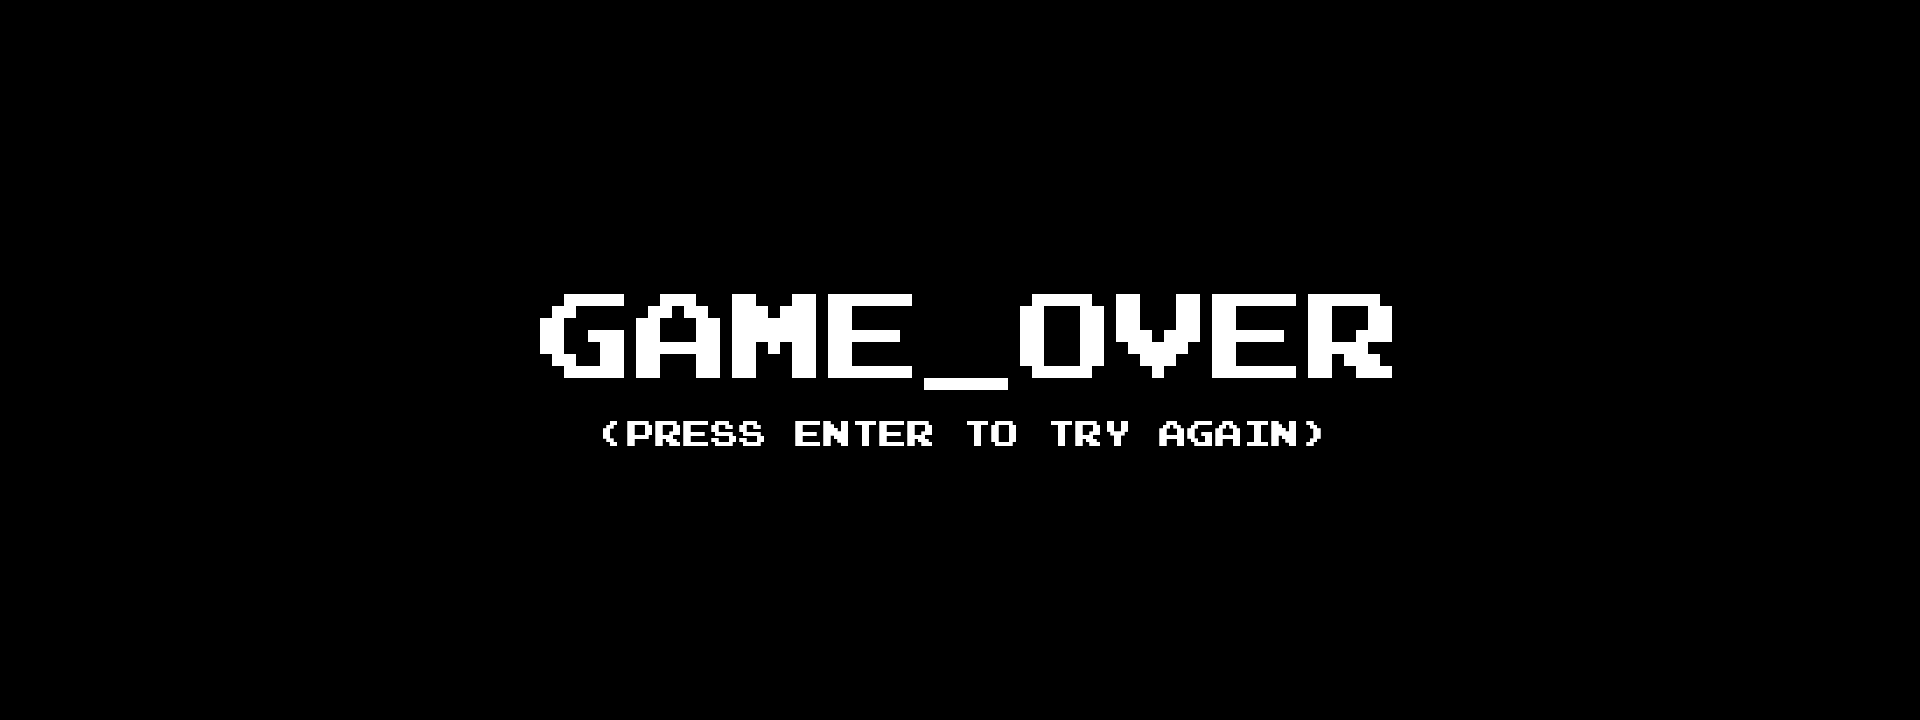
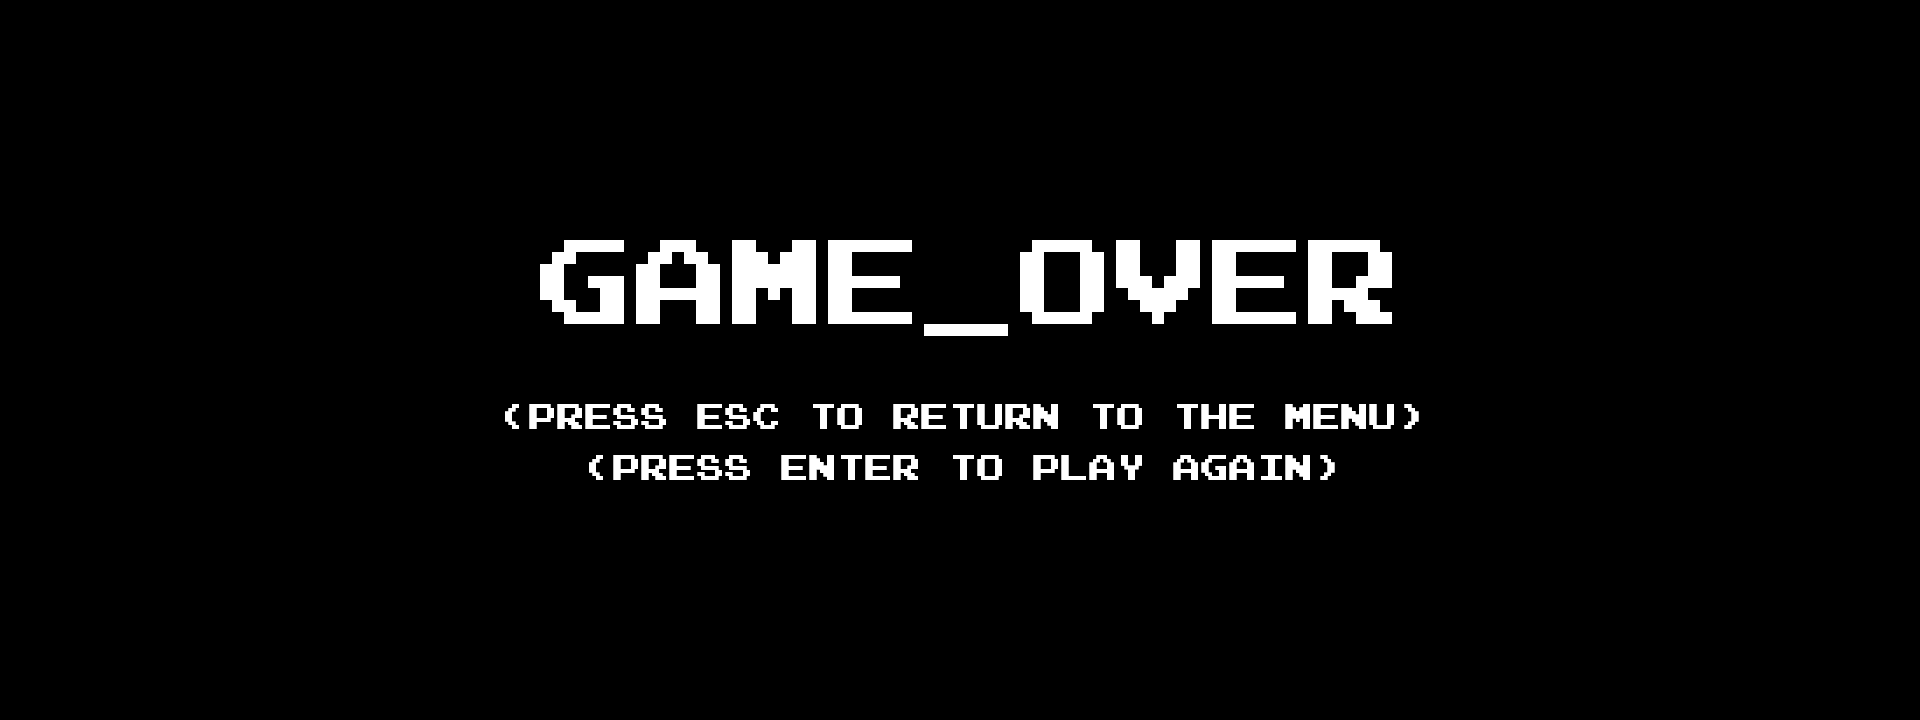
Started selection screens

Changed region(s): [[0.25, 0.3361, 0.75, 0.6722]]

diff --git a/src/control/GameEngine.java b/src/control/GameEngine.java
@@ -66,8 +66,6 @@ public class GameEngine implements Runnable {
     private synchronized void start() {
         if (isRunning) return;
 
-        createMap("map-01");
-
         isRunning = true;
         thread = new Thread(this);
         thread.start();
@@ -252,30 +250,41 @@ public class GameEngine implements Runnable {
      * @param input The inputted key-press.
      */
     public void receiveInput(ButtonAction input) {
-        if (mapManager.getMap().getEndPoint().isTouched() && input != ButtonAction.ENTER) return;
+        if (gameStatus == GameStatus.START_SCREEN) {
+//            if (input == ButtonAction.SELECTION_DOWN || input == ButtonAction.SELECTION_UP) uiManager.changeSelectedAction(input);
+//            if (input == ButtonAction.ENTER) uiManager.confirmSelectedAction();
+            if (input == ButtonAction.ESCAPE) System.exit(0);
+        } else if (gameStatus == GameStatus.MULTIPLAYER_LOBBY) {
+            //
+        } else if (gameStatus == GameStatus.CREDITS_SCREEN) {
+            if (input == ButtonAction.ENTER || input == ButtonAction.ESCAPE) gameStatus = GameStatus.START_SCREEN;
+        } else if (gameStatus == GameStatus.RUNNING) {
+            if (mapManager.getMap().getEndPoint().isTouched() && input != ButtonAction.ENTER) return;
 
-        Mario mario = mapManager.getMap().getMario();
+            Mario mario = mapManager.getMap().getMario();
 
-        if (input == ButtonAction.JUMP) mario.jump();
-        if (input == ButtonAction.CROUCH) {
-            if (mario.getX() >= 2736 && mario.getX() <= 2784 && !mario.isFalling() && !mario.isJumping()) {
-                camera.setX(10992 + ((1920 - WIDTH) / 2));
-                mario.pipeTeleport(11616, 96);
+            if (input == ButtonAction.JUMP) mario.jump();
+            if (input == ButtonAction.CROUCH) {
+                if (mario.getX() >= 2736 && mario.getX() <= 2784 && !mario.isFalling() && !mario.isJumping()) {
+                    camera.setX(10992 + ((1920 - WIDTH) / 2));
+                    mario.pipeTeleport(11616, 96);
+                }
             }
+            if (input == ButtonAction.M_RIGHT) mario.move(true, camera);
+            if (input == ButtonAction.M_LEFT) mario.move(false, camera);
+
+            if (input == ButtonAction.FIRE && mario.isFire()) mario.setFiring(true);
+            if (input == ButtonAction.RUN) {
+                if (mario.getVelX() > 0) mario.setVelX(7.5);
+                if (mario.getVelX() < 0) mario.setVelX(-7.5);
+            }
+            if (input == ButtonAction.CHEAT && mario.getVelX() >= 0) mario.setVelX(100);
+
+            if (input == ButtonAction.ACTION_COMPLETED) mario.setVelX(0);
+        } else if (gameStatus == GameStatus.GAME_OVER || gameStatus == GameStatus.MISSION_PASSED || gameStatus == GameStatus.OUT_OF_TIME) {
+            if (input == ButtonAction.ENTER) reset();
+            if (input == ButtonAction.ESCAPE) gameStatus = GameStatus.START_SCREEN;
         }
-        if (input == ButtonAction.M_RIGHT) mario.move(true, camera);
-        if (input == ButtonAction.M_LEFT) mario.move(false, camera);
-
-        if (input == ButtonAction.FIRE && mario.isFire()) mario.setFiring(true);
-        if (input == ButtonAction.RUN) {
-            if (mario.getVelX() > 0) mario.setVelX(7.5);
-            if (mario.getVelX() < 0) mario.setVelX(-7.5);
-        }
-        if (input == ButtonAction.CHEAT && mario.getVelX() >= 0) mario.setVelX(100);
-
-        if (input == ButtonAction.ENTER && (gameStatus != GameStatus.RUNNING && gameStatus != GameStatus.START_SCREEN)) reset();
-
-        if (input == ButtonAction.ACTION_COMPLETED) mario.setVelX(0);
     }
 
     /**

diff --git a/src/control/InputManager.java b/src/control/InputManager.java
@@ -37,16 +37,22 @@ public class InputManager implements KeyListener {
         int code = e.getKeyCode();
         ButtonAction currentAction = ButtonAction.NO_ACTION;
 
-        if (code == KeyEvent.VK_UP || code == KeyEvent.VK_W || code == KeyEvent.VK_SPACE) currentAction = ButtonAction.JUMP;
-        if (code == KeyEvent.VK_DOWN || code == KeyEvent.VK_S) currentAction = ButtonAction.CROUCH;
-        if (code == KeyEvent.VK_RIGHT || code == KeyEvent.VK_D) currentAction = ButtonAction.M_RIGHT;
-        if (code == KeyEvent.VK_LEFT || code == KeyEvent.VK_A) currentAction = ButtonAction.M_LEFT;
+        if (engine.getGameStatus() == GameStatus.START_SCREEN) {
+            if (code == KeyEvent.VK_UP || code == KeyEvent.VK_W) currentAction = ButtonAction.SELECTION_UP;
+            if (code == KeyEvent.VK_DOWN || code == KeyEvent.VK_S) currentAction = ButtonAction.SELECTION_DOWN;
+        } else {
+            if (code == KeyEvent.VK_UP || code == KeyEvent.VK_W || code == KeyEvent.VK_SPACE) currentAction = ButtonAction.JUMP;
+            if (code == KeyEvent.VK_DOWN || code == KeyEvent.VK_S) currentAction = ButtonAction.CROUCH;
+            if (code == KeyEvent.VK_RIGHT || code == KeyEvent.VK_D) currentAction = ButtonAction.M_RIGHT;
+            if (code == KeyEvent.VK_LEFT || code == KeyEvent.VK_A) currentAction = ButtonAction.M_LEFT;
 
-        if (code == KeyEvent.VK_Z) currentAction = ButtonAction.FIRE;
-        if (code == KeyEvent.VK_X) currentAction = ButtonAction.RUN;
-        if (code == KeyEvent.VK_C) currentAction = ButtonAction.CHEAT;
+            if (code == KeyEvent.VK_Z) currentAction = ButtonAction.FIRE;
+            if (code == KeyEvent.VK_X) currentAction = ButtonAction.RUN;
+            if (code == KeyEvent.VK_C) currentAction = ButtonAction.CHEAT;
+        }
 
         if (code == KeyEvent.VK_ENTER) currentAction = ButtonAction.ENTER;
+        if (code == KeyEvent.VK_ESCAPE) currentAction = ButtonAction.ESCAPE;
 
         notifyInput(currentAction);
     }
@@ -60,7 +66,7 @@ public class InputManager implements KeyListener {
     public void keyReleased(KeyEvent e) {
         int code = e.getKeyCode();
 
-        if (code == KeyEvent.VK_C || code == KeyEvent.VK_RIGHT || code == KeyEvent.VK_LEFT)
+        if (code == KeyEvent.VK_C || code == KeyEvent.VK_RIGHT || code == KeyEvent.VK_D || code == KeyEvent.VK_LEFT || code == KeyEvent.VK_S)
             notifyInput(ButtonAction.ACTION_COMPLETED);
     }
 

diff --git a/src/view/UIManager.java b/src/view/UIManager.java
@@ -37,7 +37,10 @@ public class UIManager extends JPanel {
         g2D.setFont(FontImporter.loadFont(28));
         g2D.setColor(Color.WHITE);
 
-        if (engine.getGameStatus() == GameStatus.GAME_OVER) showEndingScreen(g2D, "game-over");
+        if (engine.getGameStatus() == GameStatus.START_SCREEN) showStartScreen(g2D);
+        else if (engine.getGameStatus() == GameStatus.CREDITS_SCREEN) showCreditsScreen(g2D);
+        else if (engine.getGameStatus() == GameStatus.MULTIPLAYER_LOBBY) showMultiplayerScreen(g2D);
+        else if (engine.getGameStatus() == GameStatus.GAME_OVER) showEndingScreen(g2D, "game-over");
         else if (engine.getGameStatus() == GameStatus.MISSION_PASSED) showEndingScreen(g2D, "game-won");
         else if (engine.getGameStatus() == GameStatus.OUT_OF_TIME) showEndingScreen(g2D, "out-of-time");
         else {
@@ -67,7 +70,14 @@ public class UIManager extends JPanel {
     }
 
     /**
-     * Draws a full-screen image instead of the map.
+     * Draws a full-screen credits page.
+     *
+     * @param g2D The graphics engine.
+     */
+    private void showCreditsScreen(Graphics2D g2D) {}
+
+    /**
+     * Draws a full-screen ending page with the results of the run.
      *
      * @param g2D        The graphics engine.
      * @param screenName The name of the screen to be loaded.
@@ -87,5 +97,22 @@ public class UIManager extends JPanel {
             String points = "You scored: " + engine.getMapManager().getMap().getPoints() + " points!";
             g2D.drawString(points, (GameEngine.WIDTH - g2D.getFontMetrics().stringWidth(points)) / 2, 150);
         }
+    }
+
+    /**
+     * Draws a full-screen multiplayer waiting lobby page.
+     *
+     * @param g2D The graphics engine.
+     */
+    private void showMultiplayerScreen(Graphics2D g2D) {}
+
+    /**
+     * Draws the full-screen selection main menu.
+     *
+     * @param g2D The graphics engine.
+     */
+    private void showStartScreen(Graphics2D g2D) {
+        BufferedImage screen = ImageImporter.loadImage("start-screen");
+        g2D.drawImage(screen, (GameEngine.WIDTH - 1920) / 2, 0, null);
     }
 }

diff --git a/src/control/ButtonAction.java b/src/control/ButtonAction.java
@@ -12,8 +12,10 @@ public enum ButtonAction {
     CHEAT,
     /** Crouch in the pipe to enter it. */
     CROUCH,
-    /** Enter key is used to reset the game when it ends. */
+    /** Enter key is used to confirm an action or restart the game. */
     ENTER,
+    /** Escape key is used to exit or go back to the menu. */
+    ESCAPE,
     /** Lets Mario spawn a fireball in the facing direction. */
     FIRE,
     /** A standard jump performed by Mario. */
@@ -26,4 +28,8 @@ public enum ButtonAction {
     NO_ACTION,
     /** Lets mario run a little bit faster. */
     RUN,
+    /** Moves the graphic selection down. */
+    SELECTION_DOWN,
+    /** Moves the graphic selection up. */
+    SELECTION_UP,
 }

diff --git a/src/control/GameStatus.java b/src/control/GameStatus.java
@@ -6,14 +6,18 @@ package control;
  * @version 1.0.0
  */
 public enum GameStatus {
+    /** The credits screen. */
+    CREDITS_SCREEN,
     /** The player died and lost the game. */
     GAME_OVER,
     /** The player passed the level. */
     MISSION_PASSED,
+    /** The lobby where you wait for your teammate. */
+    MULTIPLAYER_LOBBY,
     /** The player ran out of time. */
     OUT_OF_TIME,
     /** The game is running and the player is still playing. */
     RUNNING,
-    /** The game is still in the loading phase. */
+    /** The starting selection screen. */
     START_SCREEN,
 }
